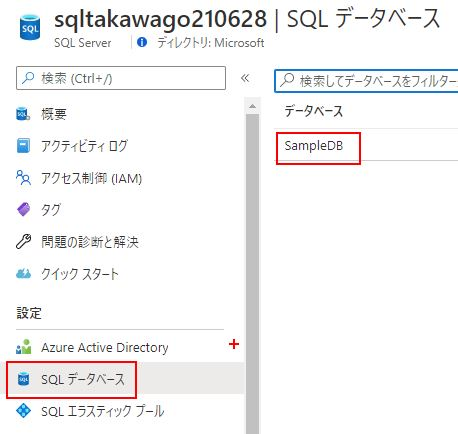
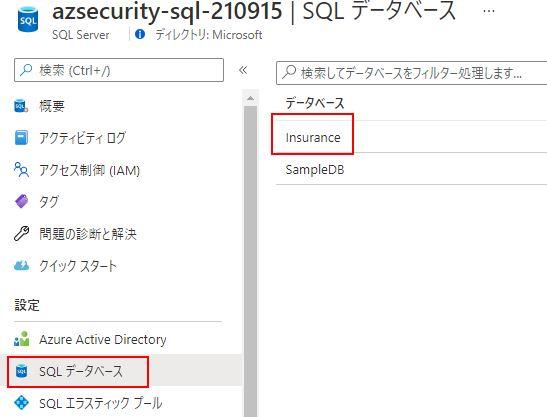
InsuranceAPIアプリ置き換え2

diff --git a/Hands-on lab/HOL step-by step - Security baseline on Azure.md b/Hands-on lab/HOL step-by step - Security baseline on Azure.md
@@ -107,11 +107,11 @@ Duration: 15 minutes
    - 有効にするプランを**オン**にします。
    - セキュリティセンターに戻り、**Just in time VM アクセス**を選択します。
 
-3. **構成済み** (Configured) タブを選択し、Lab VMs（db-1、paw-1、web-1）が表示されていることを確認します。 表示されていない場合は、**構成されていません** (Recommended) タブを選択し、ラボVM（db-1、paw-1、web-1）を選択するチェックボックスをオンにして、**Enable JIT on 3 VMs**リンクを選択します。
+3. **構成済み** (Configured) タブを選択し、Lab VMs（db-1、paw-1、web-1）が表示されていないことを確認します。 次に、**構成されていません** (Recommended) タブを選択し、ラボVM（db-1、paw-1、web-1）を選択するチェックボックスをオンにして、**Enable JIT on 3 VMs**リンクを選択します。
 
     ![In the Virtual machines list, the Recommended tab is selected and the db-1, paw-1 and web-1 virtual machines are selected for Just-in-time access.](images/Hands-onlabstep-bystep-Azuresecurityprivacyandcomplianceimages/media/image9-4.jpg "Virtual Machines Selected")
 
-    > **Note**: Azure Defenderにアップグレードした場合、新しいVMが表示されるまでに最大で10分かかることがあります。 また、バックエンドプロセスによって新しいVMが**サポートなし** (No recommendation) タブに移動するまで、新しいVMが**構成されていません** (Recommended) タブに表示される可能性があることに注意してください。 10分経ってもVMが表示されない場合は、VMブレードの**構成**タブを選択し、**Just-in-Timeを有効にする**ことで、手動でJITを有効にすることができます。
+    > **Note**: Azure Defenderにアップグレードした場合、新しいVMが表示されるまでに最大で10分かかることがあります。 また、バックエンドプロセスによって新しいVMが**サポートなし** (No recommendation) タブに移動するまで、新しいVMが**構成されていません** (Recommended) タブに表示される可能性があることに注意してください。 10分経ってもVMが表示されない場合は、下記画面のように各VM（db-1、paw-1、web-1）で、VMブレードの **構成** を選択し、**Just-in-Timeを有効にする**ことで、手動でJITを有効にしてください。
 
     ![Configuration and Enable JIT Access is highlighted in the Azure portal.](images/Hands-onlabstep-bystep-Azuresecurityprivacyandcomplianceimages/media/image119.jpg "Enable JIT")
 
@@ -170,7 +170,7 @@ Duration: 45 minutes
 
     ![All services is highlighted on the left side of the Azure portal, and SQL servers is highlighted to the right.](images/Hands-onlabstep-bystep-Azuresecurityprivacyandcomplianceimages/media/image18.jpg "Select SQL Servers")
 
-2. Azure Managerテンプレートを使って作成した**Azure SQL**データベースサーバーを選択します（例：azsecurity-INIT）。
+2. Azure Managerテンプレートを使って作成した**Azure SQL**データベースサーバーを選択します（例：azsecurity-xxxx）。
 
 3. 設定 セクションの **SQL データベース** を選択し、**SampleDB** データベースを選択します。
 
@@ -180,7 +180,7 @@ Duration: 45 minutes
 
     ![In the summary section beneath Connection strings the Show database connection strings link is highlighted.](images/Hands-onlabstep-bystep-Azuresecurityprivacyandcomplianceimages/media/image20.jpg "Select the Show database connection strings")
 
-5. このラボで後述する接続文字列、特に**Server**パラメータに注意してください。
+5. このラボで後述する接続文字列の設定で必要となりますのでNotepadなどにコピーしておいてください。特に**Server**パラメータに注意してください。
 
     ![The Server parameter is listed under ADO.NET (SQL authentication) on the ADO.NET tab.](images/Hands-onlabstep-bystep-Azuresecurityprivacyandcomplianceimages/media/image21.png "Note the Server parameter")
 
@@ -191,6 +191,8 @@ Duration: 45 minutes
 8. Azure テンプレートのデプロイ時に使用したユーザー名とパスワード（**wsadmin** - **p\@ssword1rocks**）を入力します。
 
     > **Note**: ARMテンプレートのデプロイ時にユーザー名とパスワードを変更した場合は、その値を代わりに使用してください。
+
+    > **Note**: 英語キー配列の場合の入力文字に気をつけてください。
 
     ![The information above is entered in the Connect to Server dialog box, and Connect is highlighted at the bottom.](images/Hands-onlabstep-bystep-Azuresecurityprivacyandcomplianceimages/media/image22.jpg "Sign in to the SQL Server Database Engine")
 
@@ -254,19 +256,39 @@ Duration: 45 minutes
 
 ### Task 2: Webアプリケーションソリューションのテスト
 
-1. **paw-1** vm の `c:\temp` 配下の ディレクトリの中にある**Hands-on lab\WebApp\InsuranceAPI**というソリューションファイルをダブルクリックすると、Visual Studioが立ち上がります。
+1. Azureポータルで、「**すべてのサービス**」を選択し、「**SQL**」を検索します。 **SQL Servers**を選択します。
+
+    ![All services is highlighted on the left side of the Azure portal, and SQL servers is highlighted to the right.](images/Hands-onlabstep-bystep-Azuresecurityprivacyandcomplianceimages/media/image18.jpg "Select SQL Servers")
+
+2. Azure Managerテンプレートを使って作成した**Azure SQL**データベースサーバーを選択します（例：azsecurity-xxxx）。
+
+3. 設定 セクションの **SQL データベース** を選択し、**SampleDB** データベースを選択します。
+
+    ![SQL databases is selected under Settings on the left, and at right, SampleDB is selected.](images/Hands-onlabstep-bystep-Azuresecurityprivacyandcomplianceimages/media/image19.jpg "Select the SampleDB database")
+
+4. Summaryセクションで、**データベース接続文字列の表示**を選択します。
+
+    ![In the summary section beneath Connection strings the Show database connection strings link is highlighted.](images/Hands-onlabstep-bystep-Azuresecurityprivacyandcomplianceimages/media/image20.jpg "Select the Show database connection strings")
+
+5. このラボで後述する接続文字列の設定で必要となりますのでNotepadなどにコピーしておいてください。
+
+    ![The Server parameter is listed under ADO.NET (SQL authentication) on the ADO.NET tab.](images/Hands-onlabstep-bystep-Azuresecurityprivacyandcomplianceimages/media/image21.png "Note the Server parameter")
+
+6. **paw-1** vm の `c:\temp` 配下の ディレクトリの中にある**Hands-on lab\WebApp\InsuranceAPI**というソリューションファイルをダブルクリックすると、Visual Studioが立ち上がります。
 
     > **Note**: プロンプトが表示されたら、Azure / MSDNアカウントでログインしてください。
 
-2. **ソリューション エクスプローラー**で、**Web.config**ファイルをダブルクリックして開きます。
+7. **ソリューション エクスプローラー**で、**Web.config**ファイルをダブルクリックして開きます。
 
     ![Web.config is highlighted under the InsuranceAPI project in Solution Explorer.](images/Hands-onlabstep-bystep-Azuresecurityprivacyandcomplianceimages/media/image28.jpg "Open Web.config")
 
-3. Task 2 で作成した **Insurance** データベースを指すように web.config を更新します（77 行目）。サーバー名を更新して、Azure SQL Serverを指すようにするだけでよいでしょう。(サーバー名の例: xxxxx.database.windows.net)
+8. **Insurance** データベースを指すように web.config を更新します（13 行目）。接続文字列を更新して、**value=** の後の **""** の間にコピーした接続文字列を貼り付けます。
+    
+    > **Note**: 接続文字列の Password はデータベースのパスワードに置き換えてください。
 
-    ![Line 72 of the Insurance database is highlighted.](images/Hands-onlabstep-bystep-Azuresecurityprivacyandcomplianceimages/media/image29.png "Update the server name in Web.config")
+    ![Line 72 of the Insurance database is highlighted.](images/Hands-onlabstep-bystep-Azuresecurityprivacyandcomplianceimages/media/image29.jpg "Update the server name in Web.config")
 
-4. **F5**を押して、**InsuranceAPI**ソリューションを実行します。
+9. **F5**を押して、**InsuranceAPI**ソリューションを実行します。
 
     > **Note**: Visual Studio の デフォルトブラウザを Chrome に変更するには以下の画像を参照してください。
 
@@ -276,11 +298,11 @@ Duration: 45 minutes
 
     > **Note**: Roslyn フォルダ配下のファイルが見つからないエラーが発生した場合は、\Hands-on lab\WebApp\InsuranceAPI\packages\Microsoft.CodeDom.Providers.DotNetCompilerPlatform.2.0.1\tools\Roslyn45 フォルダをコピーし、\Hands-on lab\WebApp\InsuranceAPI\InsuranceAPI\bin フォルダ配下にペーストし、フォルダ名をRoslyn へ変更してください。
 
-5. Chromeで、`http://localhost:24448/api/Users` にアクセスして、APIの応答をテストします。ポート番号は_24448_と異なるかもしれません。ブラウザにいくつかのレコードが返されるのが見えるはずです。次の命令のために `UserId` の値をコピーしてください。
+10. Chromeで、`http://localhost:24448/api/Users` にアクセスして、APIの応答をテストします。ポート番号は_24448_と異なるかもしれません。ブラウザにいくつかのレコードが返されるのが見えるはずです。次の命令のために `UserId` の値をコピーしてください。
 
     ![The sample JSON response is returned.](media/2019-12-18-16-59-47.png "Sample JSON Response")
 
-6. 開いたブラウザウィンドウで、`http://localhost:24448/api/Users/e91019da-26c8-b201-1385-0011f6c365e9`をブラウズすると、マスクされていないSSNカラムを示すjsonレスポンスが表示されます。
+11. 開いたブラウザウィンドウで、`http://localhost:24448/api/Users/e91019da-26c8-b201-1385-0011f6c365e9`をブラウズすると、マスクされていないSSNカラムを示すjsonレスポンスが表示されます。
 
     > **Note**: お使いのブラウザによっては、json形式のレスポンスを表示するためにダウンロードが必要な場合があります。Chromeでアクセスすることを推奨します。
 

diff --git a/Hands-on lab/Before the HOL - Security baseline on Azure.md b/Hands-on lab/Before the HOL - Security baseline on Azure.md
@@ -24,8 +24,6 @@ Microsoft and the trademarks listed at <https://www.microsoft.com/en-us/legal/in
 
 **Contents**
 
-<!-- TOC -->autoauto- [Security baseline on Azure before the hands-on lab setup guide](#security-baseline-on-azure-before-the-hands-on-lab-setup-guide)auto    - [Requirements](#requirements)auto    - [Before the hands-on lab](#before-the-hands-on-lab)auto        - [Task 1: Configure Azure Security Center](#task-1-configure-azure-security-center)auto        - [Task 2: Deploy resources to Azure](#task-2-deploy-resources-to-azure)auto        - [Task 3: Download Google Chrome](#task-3-download-google-chrome)auto        - [Task 4: Download SQL Server Management Studio](#task-4-download-sql-server-management-studio)auto        - [Task 5: Download GitHub resources](#task-5-download-github-resources)autoauto<!-- /TOC -->
-
 # Security baseline on Azure before the hands-on lab setup guide
 
 ## Requirements
@@ -98,7 +96,9 @@ In this exercise, you will set up your environment for use in the rest of the ha
 
     - Location: Select a **location** for the Resource group.
 
-        >**Note**: You may receive an error if you pick a region that does not support this lab. We recommend using East US, East US 2, West Central US, or West US 2.
+        >**Note**: You may receive an error if you pick a region that does not support this lab. We recommend using 東日本, East US, East US 2, West Central US, or West US 2.
+
+    - Admin Password: **p@ssword1rocks** for default
 
     - Modify the **sqlservername** to be something unique such as **azsecurity-\[your initials or first name\]**.
 
@@ -169,5 +169,9 @@ In this exercise, you will set up your environment for use in the rest of the ha
 3. Extract the zip file to `c:\temp` on **paw-1** vm. You should now see a set of folders:
 
     ![A set of extracted folders and files are visible in File Explorer: Hands-on lab, Whiteboard design session, HTMLLINKS.md, LICENSE, and README.md.](images/Hands-onlabstep-bystep-Azuresecurityprivacyandcomplianceimages/media/image4.png "Extract the zip file")
+
+### Task 6: Visual Studio 2019 へのサインイン
+
+1. **paw-1** 仮想マシンで Visual Studio 2019 を起動し、ワークショップ用のID/Passでサインインしてください。(次回起動時の手順を省略するため)
 
 You should follow all steps provided *before* attending the hands-on lab.
